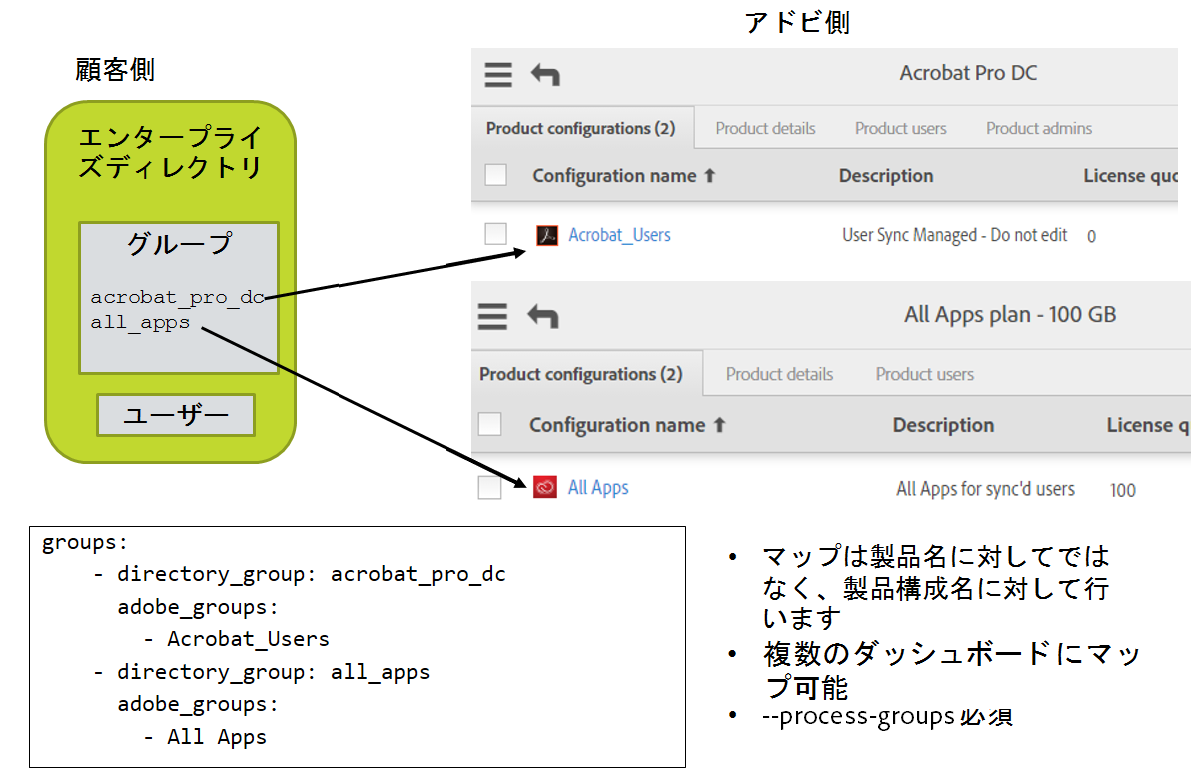
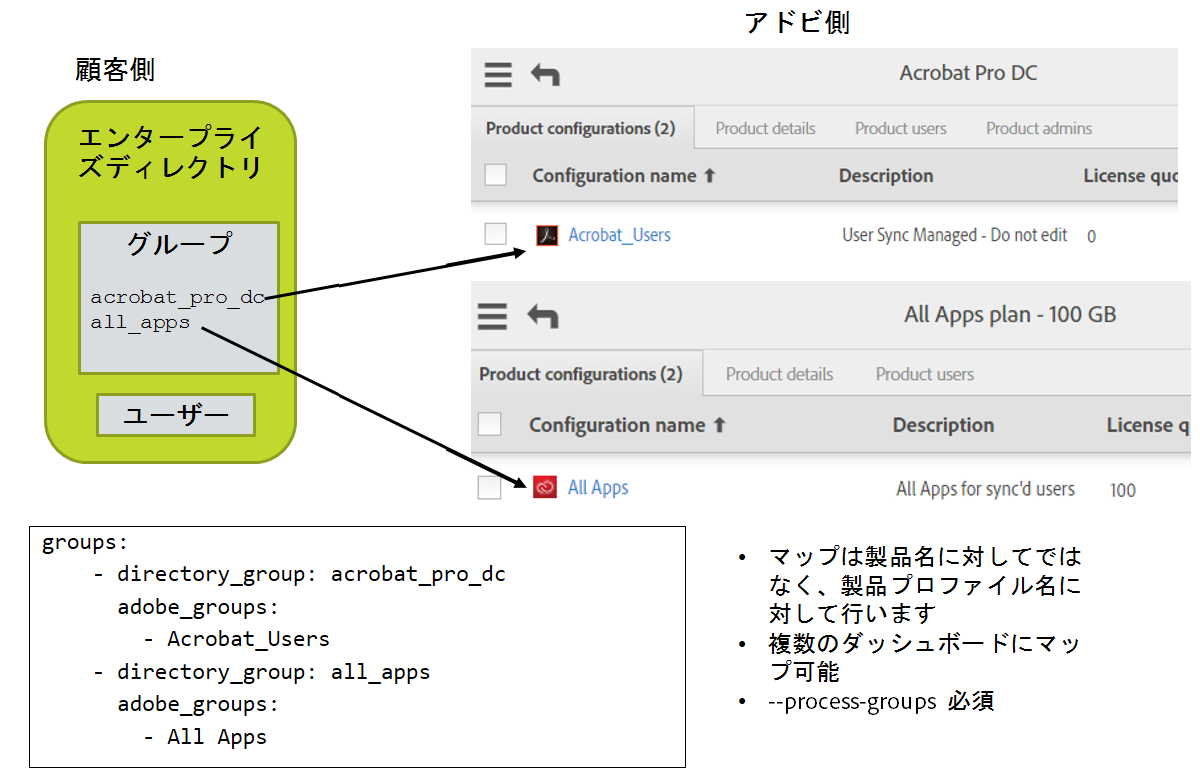
JP doc update from vendor.

Changed region(s): [[0.6167, 0.6813, 0.9558, 0.96]]

diff --git a/docs/jp/success-guide/layout_products.md b/docs/jp/success-guide/layout_products.md
@@ -6,33 +6,33 @@ nav_level: 2
 nav_order: 130
 ---
 
-# アドビ製品、製品構成、ユーザーグループのレイアウト
+# アドビ製品、製品プロファイル、ユーザーグループのレイアウト
 
 [前の節](layout_orgs.md) \| [目次に戻る](index.md) \| [次の節](decide_deletion_policy.md)
 
-製品構成（PC）は、アドビのユーザー管理システムにおけるグループのような構造です。各 PC は購入した製品に関連付けられます。PC に追加されたユーザーは、対応する製品へのアクセスが付与され、その製品を使用するライセンスを取得します（ユーザーはこのプロセスでは何も受け取りませんが、アクセスが許可されたという通知をオプションで設定することはできます。すべてのライセンス管理はバックエンドシステムによって処理されます）。
+製品プロファイル (PP)は、アドビのユーザー管理システムにおけるグループのような構造です。各 PP は購入した製品に関連付けられます。PP に追加されたユーザーは、対応する製品へのアクセスが付与され、その製品を使用するライセンスを取得します（ユーザーはこのプロセスでは何も受け取りませんが、アクセスが許可されたという通知をオプションで設定することはできます。すべてのライセンス管理はバックエンドシステムによって処理されます）。
 
 PC を作成するときに（Adobe Admin Console を使用して作成）、カスタムオプションを追加して、ユーザーが特定のアドビ製品を使用する方法を制御できます。
 
-ユーザーを PC に直接追加して、製品へのアクセスを許可することができます。これはアドビ製品ライセンスを管理する最も一般的な方法です。
+ユーザーを PP に直接追加して、製品へのアクセスを許可することができます。これはアドビ製品ライセンスを管理する最も一般的な方法です。
 
-アドビユーザーグループを使用すると、ユーザーの編成を認識しているとおりに論理的にグループ分けできます。ユーザーグループの使用はオプションです。ユーザーグループを PC に追加して、そのユーザーにライセンスを付与することができます。ユーザーをユーザーグループに追加しても、ユーザーグループを PC に追加してそのメンバーが PC のメンバーに暗黙的にならない限り、ライセンスは付与されません。
+アドビユーザーグループを使用すると、ユーザーの編成を認識しているとおりに論理的にグループ分けできます。ユーザーグループの使用はオプションです。ユーザーグループを PP に追加して、そのユーザーにライセンスを付与することができます。ユーザーをユーザーグループに追加しても、ユーザーグループを PC に追加してそのメンバーが PP のメンバーに暗黙的にならない限り、ライセンスは付与されません。
 
 
-ユーザーグループと PC は 1 つの User Sync インスタンスでしか管理できません。複数のディレクトリまたは分散した部署が存在し、そのユーザー情報を User Sync 経由でアドビに送っている場合、それぞれは 1 つのユーザーグループまたは PC と一致する必要があります。そうでない場合、User Sync は、削除すべきユーザーや別の User Sync の別のインスタンスによって追加されたユーザーを区別できません。
+ユーザーグループと PP は 1 つの User Sync インスタンスでしか管理できません。複数のディレクトリまたは分散した部署が存在し、そのユーザー情報を User Sync 経由でアドビに送っている場合、それぞれは 1 つのユーザーグループまたは PP と一致する必要があります。そうでない場合、User Sync は、削除すべきユーザーや別の User Sync の別のインスタンスによって追加されたユーザーを区別できません。
 
-User Sync を使用して PC のメンバーシップとライセンス割り当てを管理できます。ただし、これはオプションです。この管理は、Adobe Admin Console で手動で実行するか、他のアプリケーションからもおこなえます。
+User Sync を使用して PP のメンバーシップとライセンス割り当てを管理できます。ただし、これはオプションです。この管理は、Adobe Admin Console で手動で実行するか、他のアプリケーションからもおこなえます。
 
-User Sync では、ディレクトリシステムインターフェイスまたは他のツールを使用して、ユーザーをディレクトリグループに分けることができるため、アドビ製品のライセンスの管理に役立ちます。これらのグループは後でアドビユーザーグループまたは PC にマップされます。マッピングは User Sync 構成ファイルに含まれます。User Sync によって、マッピングされたグループの 1 つにディレクトリユーザーが含まれることが検出されると、そのユーザーは対応するアドビユーザーグループまたは PC に追加されます。同様に、ユーザーグループまたは PC 内のユーザーが、対応するディレクトリグループに含まれない場合は、ユーザーグループまたは PC から削除されます。
+User Sync では、ディレクトリシステムインターフェイスまたは他のツールを使用して、ユーザーをディレクトリグループに分けることができるため、アドビ製品のライセンスの管理に役立ちます。これらのグループは後でアドビユーザーグループまたは PP にマップされます。マッピングは User Sync 構成ファイルに含まれます。User Sync によって、マッピングされたグループの 1 つにディレクトリユーザーが含まれることが検出されると、そのユーザーは対応するアドビユーザーグループまたは PP に追加されます。同様に、ユーザーグループまたは PP 内のユーザーが、対応するディレクトリグループに含まれない場合は、ユーザーグループまたは PP から削除されます。
 
-&#9744; User Sync を使用してライセンス割り当てを管理するかどうかを決定します。使用しない場合、残りの手順は省略できます。ただし、作成したユーザーがアドビ製品にアクセスできるようにするには、前もって Adobe Admin Console を使用して、それらのユーザーを製品構成に手動で追加する必要があります。
+&#9744; User Sync を使用してライセンス割り当てを管理するかどうかを決定します。使用しない場合、残りの手順は省略できます。ただし、作成したユーザーがアドビ製品にアクセスできるようにするには、前もって Adobe Admin Console を使用して、それらのユーザーを製品プロファイルに手動で追加する必要があります。
 
-&#9744; 管理する製品構成とユーザーグループのために、Adobe Admin Console で PC を作成します。PC の説明フィールドに「Managed by User Sync - do not edit」（User Sync によって管理 - 編集不可）というコメントを付けます。
+&#9744; 管理する製品プロファイルとユーザーグループのために、Adobe Admin Console で PP を作成します。PP の説明フィールドに「Managed by User Sync - do not edit」（User Sync によって管理 - 編集不可）というコメントを付けます。
 
 &#9744; ユーザーグループを使用して製品のアクセスを管理する場合は、まずユーザーグループと製品構成を作成する必要があります。その後、各ユーザーグループを適切な製品構成に追加することにより、製品のアクセスを管理できます。ユーザーグループの説明フィールドに「Managed by User Sync - do not edit」（User Sync によって管理 - 編集不可）というコメントを付けます。
 
 
-&#9744; アドビ組織および各アドビ組織内の製品と PC の図を作成します。その図にディレクトリとディレクトリグループを追加し、マッピングを示します。以下に例を挙げます。
+&#9744; アドビ組織および各アドビ組織内の製品と PP の図を作成します。その図にディレクトリとディレクトリグループを追加し、マッピングを示します。以下に例を挙げます。
 
 ![img](images/layout_products_map.png)
 

diff --git a/docs/jp/user-manual/advanced_configuration.md b/docs/jp/user-manual/advanced_configuration.md
@@ -229,7 +229,7 @@ extensions:
     * `username` - Federated ID 以外のすべての場所で無視
       [ユーザー名ベースのログインで構成](https://helpx.adobe.com/jp/enterprise/help/configure-sso.html)
     * `domain` - Federated ID 以外のすべての場所で無視 [ユーザー名ベースのログインで構成](https://helpx.adobe.com/jp/enterprise/help/configure-sso.html)
-* `target_groups`：ユーザー単位の Python セットで、アドビ側のユーザーグループと製品構成を収集し、同期の実行で `process-groups` が指定されるとユーザーがそこに追加されます。それぞれの値は、名前のセットです。このセットは、メインの構成ファイルでグループマッピングを適用して初期化され、このセットに対する変更（追加または取り除き）は、アドビ側のユーザーに適用されるグループのセットを変更します。
+* `target_groups`：ユーザー単位の Python セットで、アドビ側のユーザーグループと製品プロファイルを収集し、同期の実行で `process-groups` が指定されるとユーザーがそこに追加されます。それぞれの値は、名前のセットです。このセットは、メインの構成ファイルでグループマッピングを適用して初期化され、このセットに対する変更（追加または取り除き）は、アドビ側のユーザーに適用されるグループのセットを変更します。
 * `hook_storage`：ユーザー単位の Python 辞書で、最初にカスタムコードに渡されるときは空で、呼び出し全体で保持されます。カスタムコードは、この辞書に任意のプライベートデータを格納できます。外部スクリプトファイルを使用する場合、これらのファイルをコンパイルすることによって作成されたコードオブジェクトを格納するための適切な場所です。
 * `logger`：`logging.logger` タイプのオブジェクトで、コンソールまたはファイルログ、あるいはその両方に出力します（ロギング構成に基づく）。
 
@@ -238,8 +238,8 @@ extensions:
 メインの構成ファイルの **group** セクションは、アドビユーザーグループと製品構成へのディレクトリグループのマッピングを定義します。
 
 - エンタープライズディレクトリ側では、User Sync は LDAPクエリ、`users` コマンドラインパラメーター、およびユーザーフィルターに基づいてエンタープライズディレクトリからユーザーのセットを選択し、マッピングされたいずれかのディレクトリグループにこれらのユーザーがあるかどうかを検証します。ある場合、User Sync はグループマップを使用して、それらのユーザーがどのアドビグループに追加されるかを判断します。
-- アドビ側では、User Sync はマッピングされたグループと製品構成のメンバーシップを検証します。それらのグループ内のユーザーが
-選択されたディレクトリユーザーのセットにない場合、User Sync はそのユーザーをグループから取り除きます。通常はこれが望まれる動作です。例えば、ユーザーが Adobe Photoshop 製品構成内にあり、エンタープライズディレクトリから取り除かれた場合、ライセンスが割り当てられないよう、グループからも取り除かれることが期待されます。
+- アドビ側では、User Sync はマッピングされたグループと製品プロファイルのメンバーシップを検証します。それらのグループ内のユーザーが
+選択されたディレクトリユーザーのセットにない場合、User Sync はそのユーザーをグループから取り除きます。通常はこれが望まれる動作です。例えば、ユーザーが Adobe Photoshop の製品プロファイル内にあり、エンタープライズディレクトリから取り除かれた場合、ライセンスが割り当てられないよう、グループからも取り除かれることが期待されます。
 
 ![Figure 4:グループマッピングの例](media/group-mapping.png)
 

diff --git a/docs/jp/success-guide/decide_deletion_policy.md b/docs/jp/success-guide/decide_deletion_policy.md
@@ -11,14 +11,14 @@ nav_order: 140
 [前の節](layout_products.md) \| [目次に戻る](index.md) \|  [次の節](setup_adobeio.md)
 
 
-アカウントが無効にされるかディレクトリから削除された場合、対応する Adobe アカウントの除去が必要な場合がありますが、Adobe アカウントを除去すると、後で必要になるアセットや設定などが削除される可能性があります。また、ユーザー組織に存在する Adobe ID アカウントは、エンドユーザーに属しているので削除できません。ただし、ユーザー組織からユーザーを除去する必要がある場合は、Adobe ID ユーザーに付与したライセンスを復元できます。
+アカウントが無効になったり、ディレクトリから削除した時に、対応するAdobe アカウントを取り除きたい場合があります。しかし、Adobe アカウントを取り除くことで必要なアセットや設定が削除される可能性があります。また、ユーザー組織に存在する Adobe ID アカウントは、エンドユーザーに属するアカウントになるため削除できません。ただし、Adobe ID ユーザーに付与したライセンスについては、そのユーザーを組織から削除すると回復できます。
 
 
 User Sync を使用して Adobe アカウントの削除を処理するために利用可能な選択肢：
 
   - 何もしません。アカウントのクリーンアップを手動で処理する必要があります。
 
-  - 削除するアカウントのリストを生成しますが、アクションは今すぐ実行しません。リストを編集し、後で User Sync を使用してアカウントの削除を実行するために使用できます。
+  - 削除するアカウントのリストを生成しますが、アクションは今すぐ実行しません。リストを編集し、後で User Sync を使用してアカウントの削除を実行します。
 
   - ユーザー組織によってアカウントに付与されたすべてのライセンスを復元しますが、アカウントはアクティブなままにします。（remove-adobe-groups）
 

diff --git a/docs/jp/success-guide/layout_orgs.md b/docs/jp/success-guide/layout_orgs.md
@@ -76,7 +76,7 @@ nav_order: 120
 
 ディレクトリごとに 1 回ずつ、2 回の同期構成を実行する必要があります。
 
-2 つの User Sync ジョブでマップおよび管理されるユーザーグループ（UG）と製品構成（PC）が重なってはなりません。つまり、各ユーザーグループと PC は 1 つの User Sync インスタンスのみで管理されます。
+2 つの User Sync ジョブでマップおよび管理されるユーザーグループ（UG）と製品プロファイル(PP)が重なってはなりません。つまり、各ユーザーグループと PP は 1 つの User Sync インスタンスのみで管理されます。
 
 このように構成されている場合、User Sync を使用してユーザーを削除することができません。2 つの同期インスタンスが互いにユーザーを削除しようとするためです。
 

diff --git a/docs/jp/success-guide/setup_config_files.md b/docs/jp/success-guide/setup_config_files.md
@@ -18,8 +18,8 @@ nav_order: 280
 - 秘密キーファイル
 - ディレクトリシステムのアクセス認証情報とユーザーの編成に関する情報
 - User Sync を使用して製品のアクセスを管理するかどうかに関する決定
-  - 製品構成の名前とユーザーグループの名前（ライセンスのアドビ側での編成方法に対応）
-  - 製品構成とユーザーグループは Adobe Admin Console であらかじめ作成しておく必要があります。
+  - 製品プロファイルの名前とユーザーグループの名前（ライセンスのアドビ側での編成方法に対応）
+  - 製品プロファイルとユーザーグループは Adobe Admin Console であらかじめ作成しておく必要があります。
 
 ワープロエディターではなく、必ずテキストエディターを使用してください。
 
